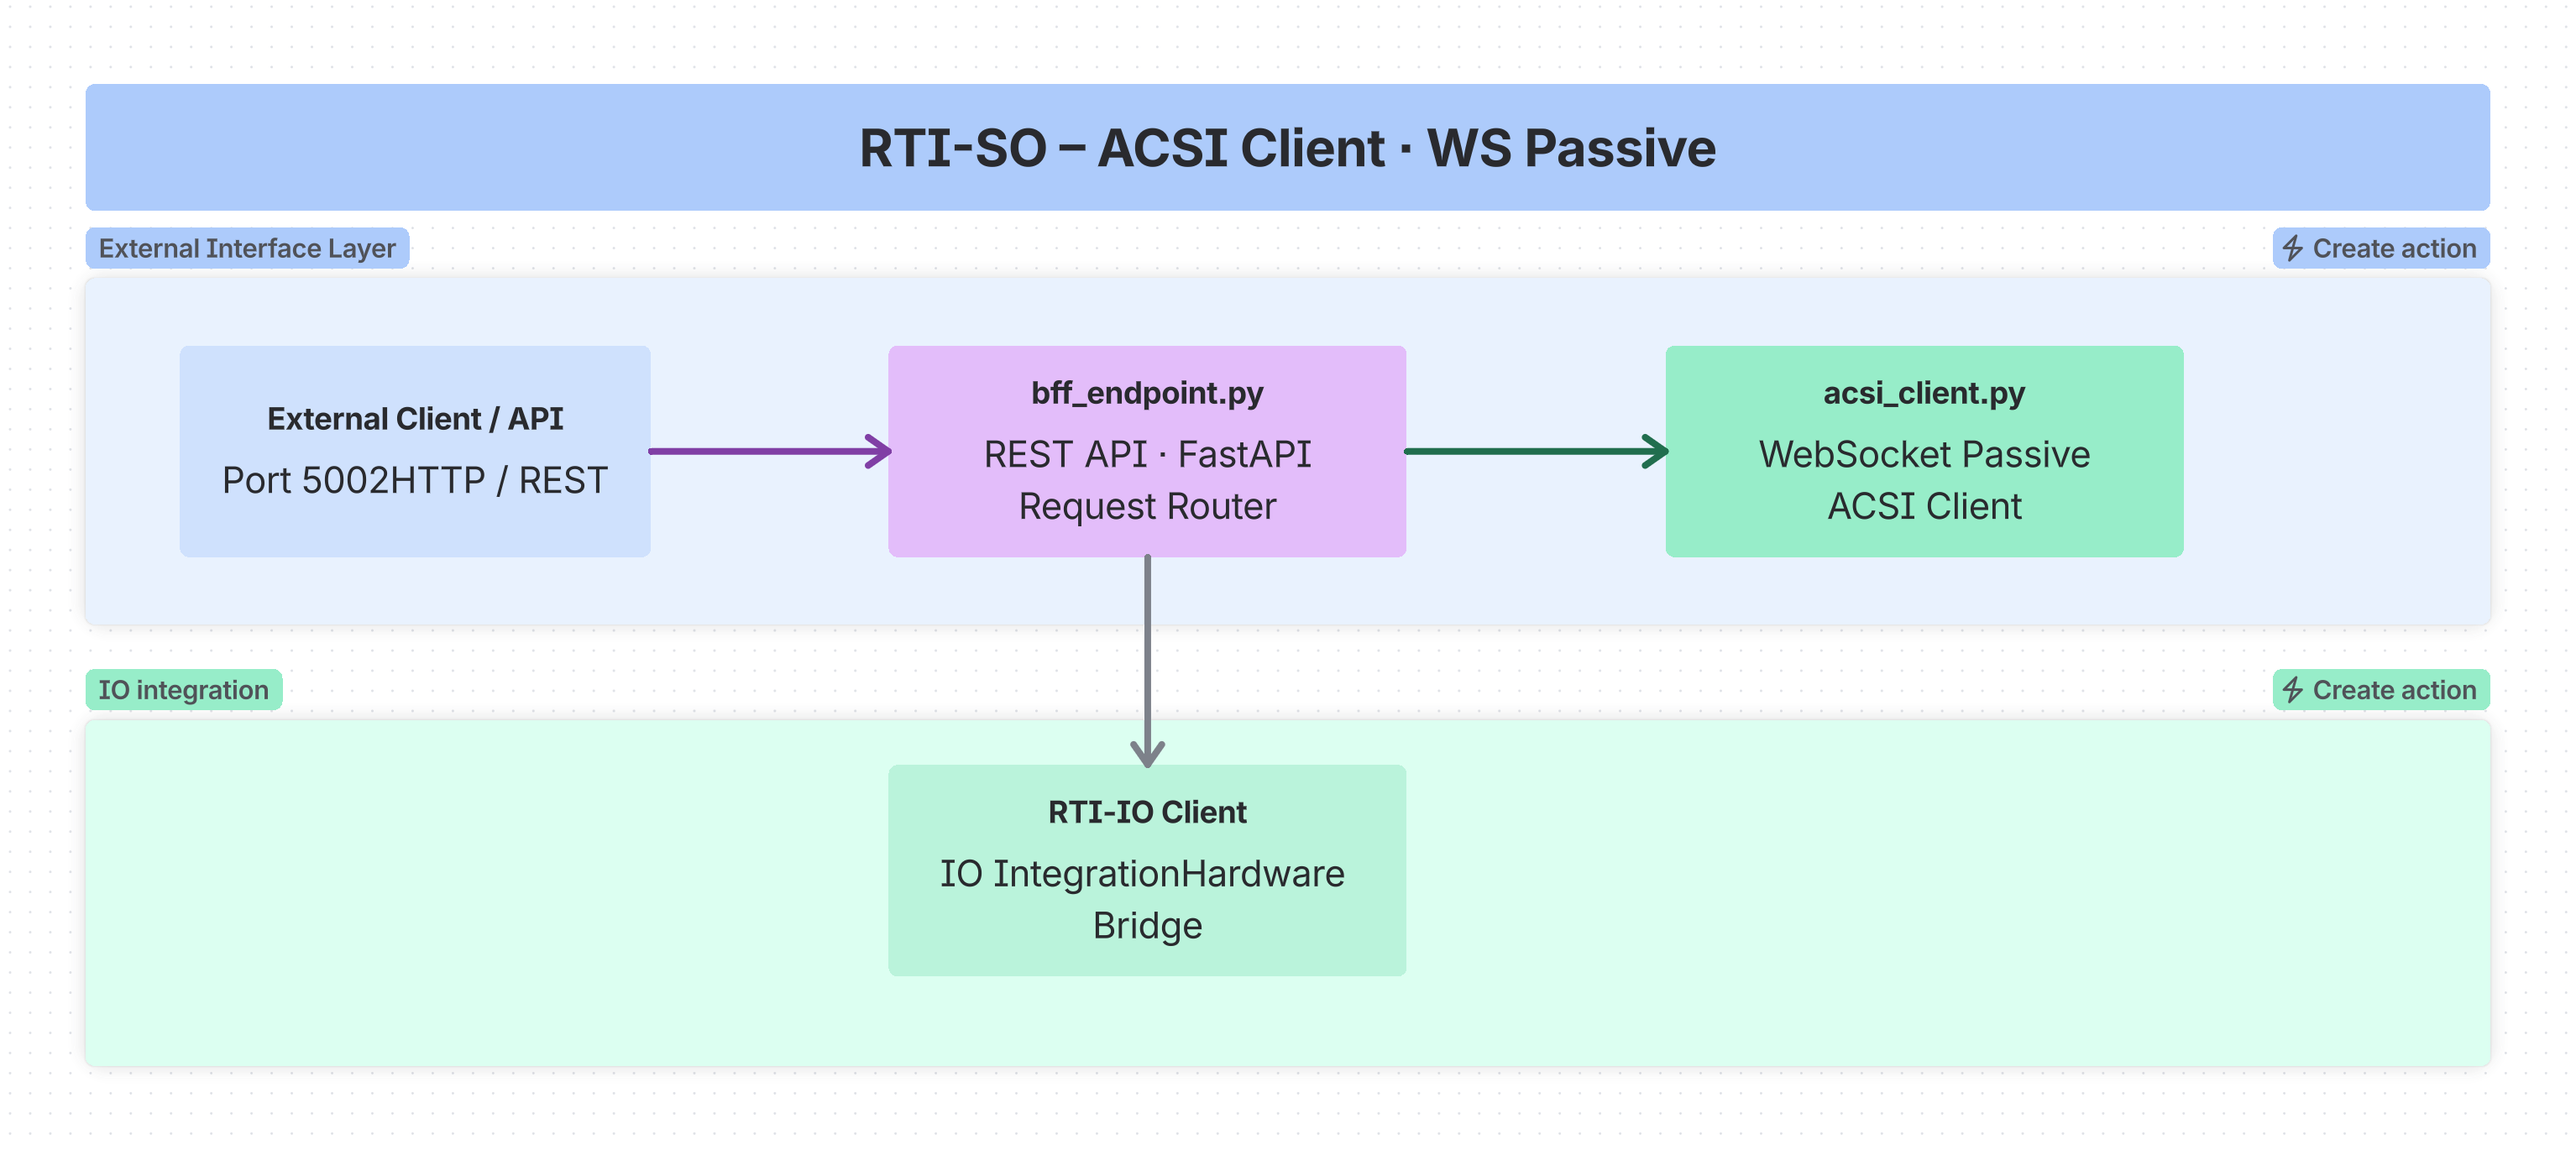
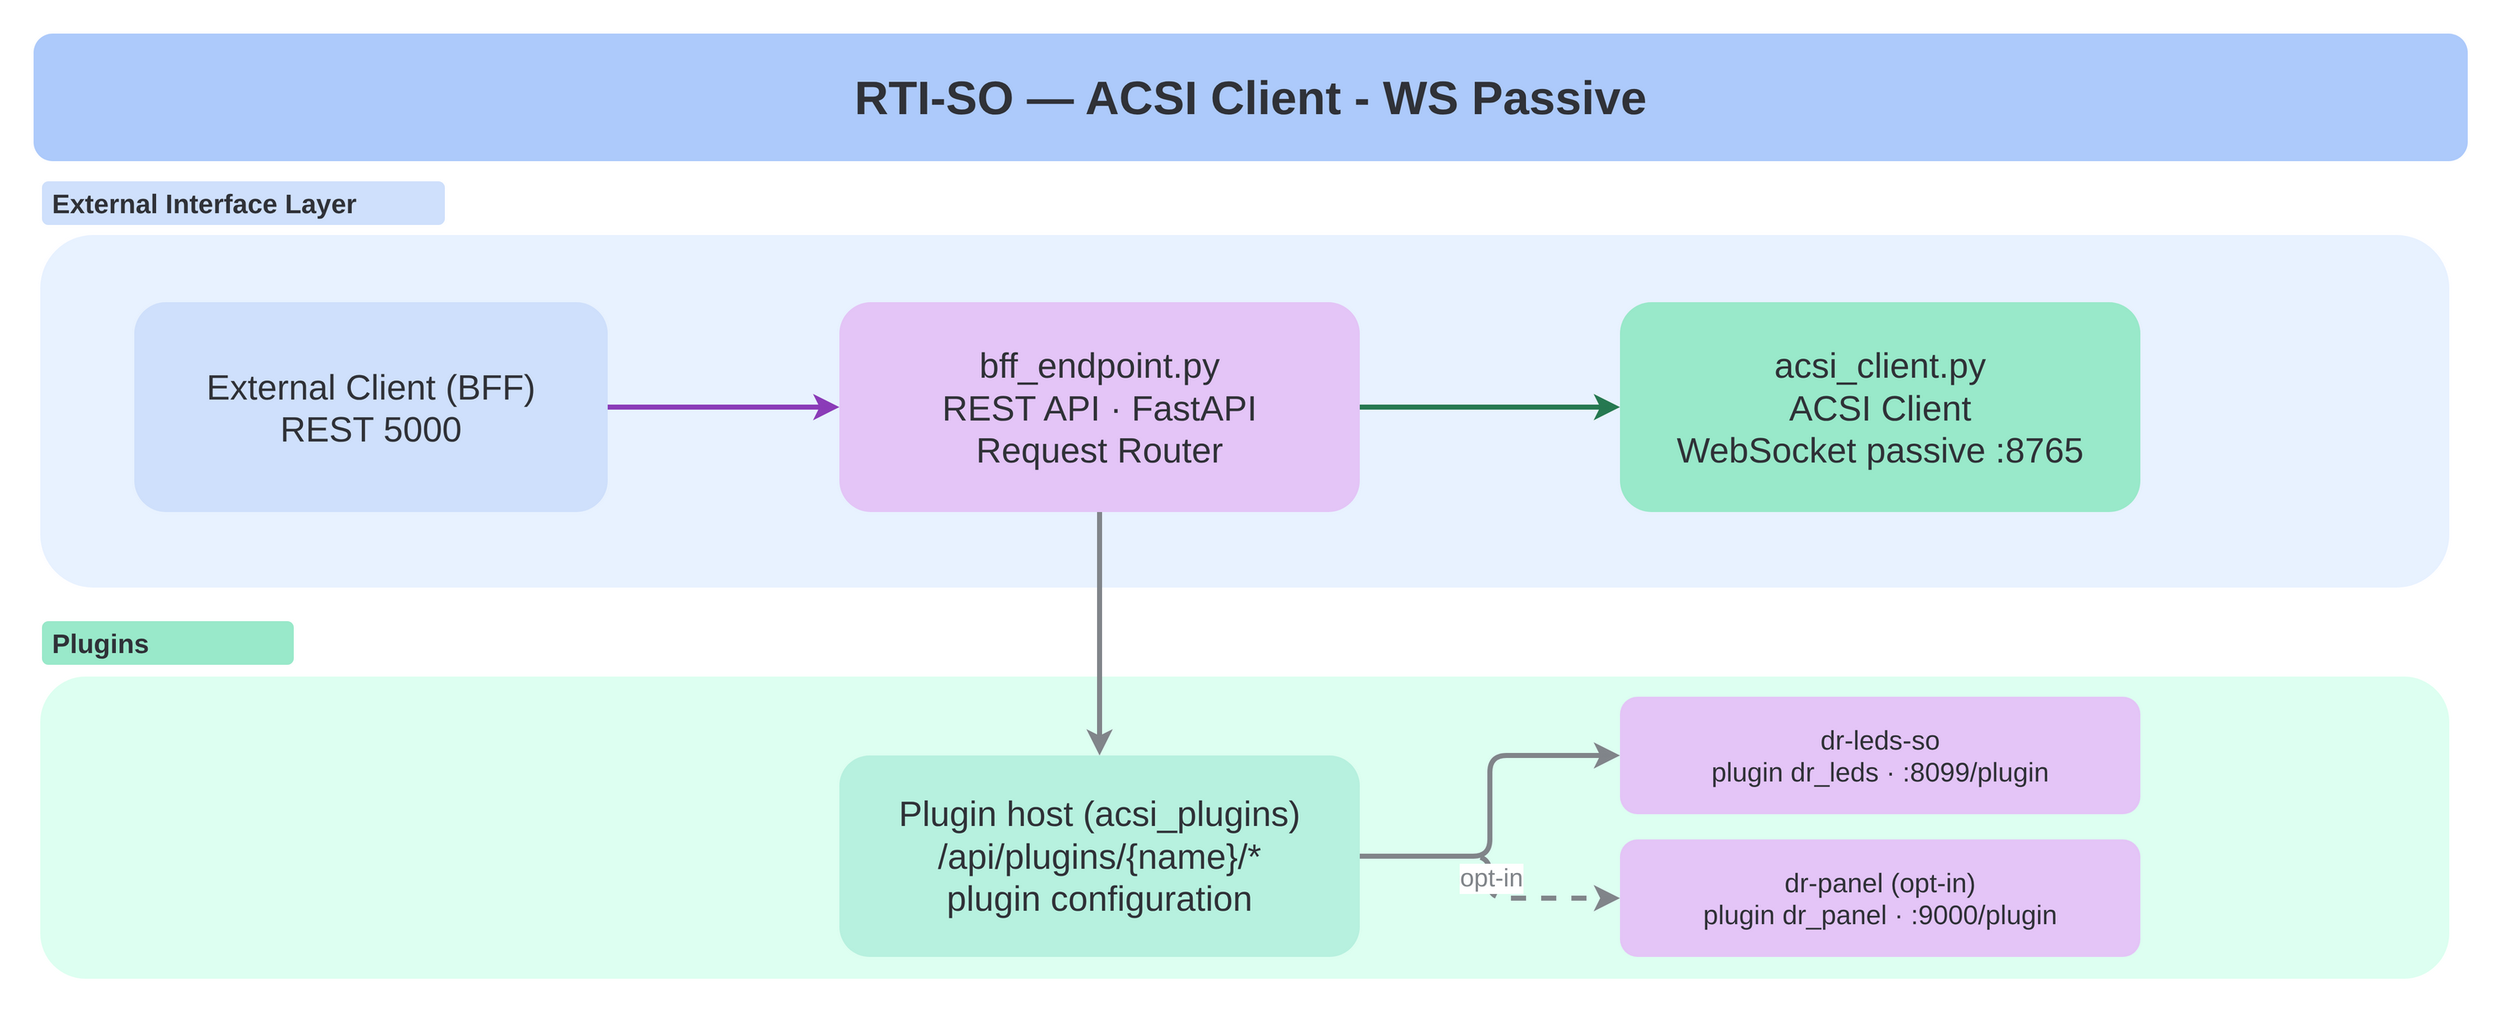
docs: diagrams exported again and shown in the system overview
The images in docs/rti-demo/images are exported again from the
architecture diagram (pages 01-04, 06, 07); Demo_IO.png, of the
deleted IO page, is gone, and with it its link in dr_panel's README.
The FSP and SO pages get shorter ACSI labels.

docs/rti-demo/README.md shows every diagram where it belongs (the FSP,
SO and BFF under Components, OAuth 2.0, POST /api/execute under Main
flows), lists FSP02, dr_leds and dr_panel instead of the IO service,
and gets a Design section for the drawio, the wireframe, the style
guide and the logging and playbook designs. The root README shows the
overview diagram.

diff --git a/docs/rti-demo/README.md b/docs/rti-demo/README.md
@@ -8,51 +8,73 @@ SPDX-License-Identifier: Apache-2.0
 
 The RTI demo is an IEC 61850-based Real-Time Infrastructure: an RTI-SO (system operator, ACSI client) and one or more
 RTI-FSPs (flexibility service providers, ACSI servers) exchange ACSI services over WebSocket, managed through a BFF and
-a React HMI, with physical feedback from a Raspberry Pi IO service.
+a React HMI. Plugins connect to the FSPs and SO: by default two simulated LEDs each (dr_leds), or a Raspberry Pi's
+LEDs, buttons, potentiometers and displays (dr_panel).
 
-This page is the system view: components, how they communicate, the data model and the main flows. How to run each
+This page is the system view: components, how they communicate, the data model, and the main flows. How to run each
 part is in the module READMEs (see [Components](#components)); why it is built this way is in
-[decisions/](decisions/README.md); changes not built yet are described in [specs/](specs/README.md).
+[decisions/](decisions/README.md); changes not built yet are described in [specs/](specs/README.md); the HMI's
+wireframes, style and the earlier designs are in [Design](#design).
 
 ## Components
 
-| Component | Type | ACSI role | Default port |
-|---|---|---|---|
-| HMI | Frontend | - | 8080 |
-| BFF | Backend | - | 3000 |
-| RTI-FSP | Service | ACSI server | 5001 (REST); WebSocket client of the SO |
-| RTI-SO | Service | ACSI client | 5000 (REST), 8765 (WebSocket server) |
-| IO | Service | - | 9000 |
-| IDP server (Keycloak) | Service | - | 8081 (HTTP), 8443 (HTTPS) |
+| Component             | Type                                 | ACSI role   | Default port                                  |
+|-----------------------|--------------------------------------|-------------|-----------------------------------------------|
+| HMI                   | Frontend                             | -           | 8080                                          |
+| BFF                   | Backend                              | -           | 3000                                          |
+| RTI-FSP01, RTI-FSP02  | Service                              | ACSI server | 5001, 5005 (REST); WebSocket client of the SO |
+| RTI-SO                | Service                              | ACSI client | 5000 (REST), 8765 (WebSocket server)          |
+| dr_leds               | Plugin, one per FSP and SO (default) | -           | 8099                                          |
+| dr_panel              | Plugin for the Raspberry Pi (opt-in) | -           | 9000                                          |
+| IDP server (Keycloak) | Service                              | -           | 8081 (HTTP), 8443 (HTTPS)                     |
 
 ![RTI demo system architecture overview](images/RTI_Demo_System_Architecture_Overview.png)
 
-Each component's README is its reference: run and test commands, configuration, API and design.
+Each component's README is its reference: run and test commands, configuration, API, and design.
 
-| Component | Reference |
-|---|---|
-| RTI-FSP (ACSI server, WebSocket active) | [modules/fsp/README.md](../../examples/rti-demo/modules/fsp/README.md) |
-| RTI-SO (ACSI client, WebSocket passive) | [modules/so/README.md](../../examples/rti-demo/modules/so/README.md) |
-| BFF (backend for frontend) | [modules/bff/README.md](../../examples/rti-demo/modules/bff/README.md) |
-| HMI (React frontend) | [modules/hmi/README.md](../../examples/rti-demo/modules/hmi/README.md) |
-| Plugins (HTTP services the FSP and SO connect to) | [rti-plugins/README.md](../../examples/rti-plugins/README.md) |
-| IO server and IO plugin (Raspberry Pi devices, its own stack) | [rti-plugins/dr_panel/README.md](../../examples/rti-plugins/dr_panel/README.md) |
-| Plugin host | [modules/plugins/README.md](../../examples/rti-demo/modules/plugins/README.md) |
-| Demo playbooks | [playbooks/README.md](../../examples/rti-demo/playbooks/README.md) |
+| Component                                                     | Reference                                                                       |
+|---------------------------------------------------------------|---------------------------------------------------------------------------------|
+| RTI-FSP (ACSI server, WebSocket active)                       | [modules/fsp/README.md](../../examples/rti-demo/modules/fsp/README.md)          |
+| RTI-SO (ACSI client, WebSocket passive)                       | [modules/so/README.md](../../examples/rti-demo/modules/so/README.md)            |
+| BFF (backend for frontend)                                    | [modules/bff/README.md](../../examples/rti-demo/modules/bff/README.md)          |
+| HMI (React frontend)                                          | [modules/hmi/README.md](../../examples/rti-demo/modules/hmi/README.md)          |
+| Plugins (HTTP services the FSP and SO connect to)             | [rti-plugins/README.md](../../examples/rti-plugins/README.md)                   |
+| DR Leds (two simulated LEDs, the sample plugin)               | [rti-plugins/dr_leds/README.md](../../examples/rti-plugins/dr_leds/README.md)   |
+| DR Panel (Raspberry Pi devices, its own stack)                | [rti-plugins/dr_panel/README.md](../../examples/rti-plugins/dr_panel/README.md) |
+| Plugin host                                                   | [modules/plugins/README.md](../../examples/rti-demo/modules/plugins/README.md)  |
+| Demo playbooks                                                | [playbooks/README.md](../../examples/rti-demo/playbooks/README.md)              |
+
+### Inside the FSP, SO, and BFF
+
+The FSP and SO each take REST calls from the BFF in `bff_endpoint.py`, run their side of ACSI over the WebSocket, and
+host the plugins they connect to:
+
+![RTI-FSP: ACSI server, WebSocket active](images/RTI_FSP_ACSI_SERVER.png)
+
+![RTI-SO: ACSI client, WebSocket passive](images/SO_ACSI_CLIENT.png)
+
+The BFF sits between the HMI and the instances:
+
+![BFF: between the HMI, the FSPs and SO, the plugins and the IDP](images/BFF.png)
+
+The diagrams are pages of [design/RTI-demo-system-architecture.drawio](design/RTI-demo-system-architecture.drawio);
+after a change, export the page again into [images/](images), for example
+`drawio -x -f png -p 2 -s 2 -b 20 -o images/RTI_Demo_System_Architecture_Overview.png design/RTI-demo-system-architecture.drawio`
+(`-p` counts pages from 1: 2 is the overview, 3 OAuth, 4 FSP, 5 SO, 6 BFF, 7 `/api/execute`).
 
 ## Communication
 
-| From | To | Protocol | Port |
-|---|---|---|---|
-| HMI | BFF | HTTP/REST | 3000 |
-| BFF | FSP | HTTP/REST | 5001 |
-| BFF | SO | HTTP/REST | 5000 |
-| FSP | SO | WebSocket (ACSI) | 8765 |
-| FSP, SO | IO | HTTP/REST | 9000 |
-| IO | physical devices | direct hardware | GPIO, SPI (ADC), I2C (LCD) |
-| BFF | IDP server | discovery, health | 8081 (HTTP) or 8443 (HTTPS) |
-| FSP | IDP server | OAuth 2.0 token request | 8081 (HTTP) or 8443 (HTTPS) |
-| SO | IDP server | OAuth 2.0 signing keys (JWKS) | 8081 (HTTP) or 8443 (HTTPS) |
+| From     | To               | Protocol                      | Port                             |
+|----------|------------------|-------------------------------|----------------------------------|
+| HMI      | BFF              | HTTP/REST                     | 3000                             |
+| BFF      | FSP              | HTTP/REST                     | 5001 (FSP01), 5005 (FSP02)       |
+| BFF      | SO               | HTTP/REST                     | 5000                             |
+| FSP      | SO               | WebSocket (ACSI)              | 8765                             |
+| FSP, SO  | plugins          | HTTP (plugin API)             | 8099 (dr_leds), 9000 (dr_panel)  |
+| dr_panel | physical devices | direct hardware               | GPIO, SPI (ADC), I2C (OLED, LCD) |
+| BFF      | IDP server       | discovery, health             | 8081 (HTTP) or 8443 (HTTPS)      |
+| FSP      | IDP server       | OAuth 2.0 token request       | 8081 (HTTP) or 8443 (HTTPS)      |
+| SO       | IDP server       | OAuth 2.0 signing keys (JWKS) | 8081 (HTTP) or 8443 (HTTPS)      |
 
 All REST traffic is `application/json`.
 
@@ -75,6 +97,8 @@ All REST traffic is `application/json`.
   it forwards to the FSP and SO.
 - Fields: `enable_oauth`, `idp_server`, `realm`, `token_endpoint`, `certificate_endpoint`, `token_issuer`,
   `client_id`, `client_secret`, `auth_server_ca`, `enable_token_refresh`.
+
+![OAuth 2.0: enabling it from the HMI, the FSP's token and the SO's check](images/Security_and_OAuth_2.0_Communication_Flow.png)
 
 ### TLS
 
@@ -106,29 +130,36 @@ Substation
 
 ### Data types
 
-| Type | Values |
-|---|---|
-| BOOLEAN | ON/OFF, True/False |
-| INTEGER | signed integer |
-| FLOAT | floating point |
-| STRING | text |
-| ENUMERATED | predefined values |
-| OCTET-STRING | binary |
+| Type         | Values             |
+|--------------|--------------------|
+| BOOLEAN      | ON/OFF, True/False |
+| INTEGER      | signed integer     |
+| FLOAT        | floating point     |
+| STRING       | text               |
+| ENUMERATED   | predefined values  |
+| OCTET-STRING | binary             |
 
 ### SCL files
 
 - SCL is the XML-based configuration format.
-- The HMI's Tools page parses it (`sclParser.js`), extracts the IEDs, access points and data objects, and generates the
+- The HMI's Tools page parses it (`sclParser.js`), extracts the IEDs, access points, and data objects, and generates the
   Python model code for an FSP.
 
 ## Main flows
 
+### Any call through the BFF
+
+The HMI sends every call to an FSP or SO as `POST /api/execute` with a target; the BFF looks the target up in
+`connections.json`, adds the OAuth token when it is enabled, and forwards the call:
+
+![POST /api/execute: from the HMI through the BFF to an FSP or SO](images/Sequence_Diagram-Dynamic_Execution_via_POST__api_execute.png)
+
 ### Read or write on the FSP itself
 
-HMI → BFF → FSP (REST 5001) → the FSP's own model. This is local model access: no WebSocket frames. A write that is
-mapped to an IO device also updates that device (LED, LCD).
+HMI → BFF → FSP (REST 5001) → the FSP's own model. This is local model access: no WebSocket frames. The FSP's plugins
+get the writing as an event; dr_panel passes it on to the output device mapped to it (LED, display).
 
-### Read, write or operate through the SO
+### Read, write, or operate through the SO
 
 HMI → BFF → SO (REST 5000) → WebSocket (SO port 8765) → FSP → the FSP's model, and the response back the same way.
 Reports travel FSP → SO over the same WebSocket.
@@ -138,7 +169,19 @@ Reports travel FSP → SO over the same WebSocket.
 HMI → BFF (`POST /api/add-connection`) → `connections.json` → `BffClient` registration. In the background, the BFF's
 status monitor checks every connection's health every 10 seconds.
 
+## Design
+
+[design/](design) holds what the demo is drawn and styled from:
+
+| File                                                                              | What                                                                                                                                                                                                            |
+|-----------------------------------------------------------------------------------|-----------------------------------------------------------------------------------------------------------------------------------------------------------------------------------------------------------------|
+| [RTI-demo-system-architecture.drawio](design/RTI-demo-system-architecture.drawio) | The diagrams on this page, one per page: infrastructure, system architecture, OAuth 2.0, FSP, SO, BFF and `POST /api/execute`; the images in [images/](images) are exported from it                             |
+| [wireframe.html](design/wireframe.html)                                           | Low-fidelity wireframes of the HMI's screens, one per route: Overview, Connections, Model, Traffic, Diagnostics, Tools, Settings, ACSI Server and ACSI Client (with their Plugins panels). Open it in a browser |
+| [style-guide.md](design/style-guide.md)                                           | The HMI's visual language: design tokens, component patterns, and the conventions for new UI                                                                                                                    |
+| [logging-kinds.md](design/logging-kinds.md)                                       | The three kinds of log entry (system, WebSocket, ACSI service) and where the HMI shows each                                                                                                                     |
+| [demo-playbooks.md](design/demo-playbooks.md)                                     | The design of the demo playbooks in the HMI; a record, implemented: the current behaviour is in [playbooks/README.md](../../examples/rti-demo/playbooks/README.md)                                              |
+
 ## Running the demo
 
 [examples/rti-demo/README.md](../../examples/rti-demo/README.md) covers starting the services (`launch.py` or Docker
-Compose), their ports and URLs, Keycloak, the hardware demo, logs and troubleshooting.
+Compose), their ports and URLs, Keycloak, the hardware demo, logs, and troubleshooting.

diff --git a/README.md b/README.md
@@ -70,7 +70,10 @@ IEC61850Client  <-- ACSI services, reports -->  IEC61850Server
   [docs/architecture/data-model-architecture.md](docs/architecture/data-model-architecture.md)).
 - `ws61850.asn1` and `ws61850.protocol` encode and decode the messages defined by the ASN.1 schema.
 - The RTI demo in `examples/rti-demo` builds a complete system on top: RTI-FSP (IEC 61850 server), RTI-SO (IEC 61850
-  client), a BFF and a React HMI.
+  client), a BFF and a React HMI, with plugins for LEDs and a Raspberry Pi's devices. Its
+  [system overview](docs/rti-demo/README.md) has the diagrams of each part.
+
+![RTI demo system architecture overview](docs/rti-demo/images/RTI_Demo_System_Architecture_Overview.png)
 
 ---
 

diff --git a/examples/rti-plugins/dr_panel/README.md b/examples/rti-plugins/dr_panel/README.md
@@ -27,8 +27,6 @@ The IO service enables remote control and monitoring of physical IO devices (LED
 
 ### Architecture
 
-![IO service architecture](../../../docs/rti-demo/images/Demo_IO.png)
-
 ```
 +------------------+     +---------------------+     +------------------+
 |                  |     |                     |     |                  |
